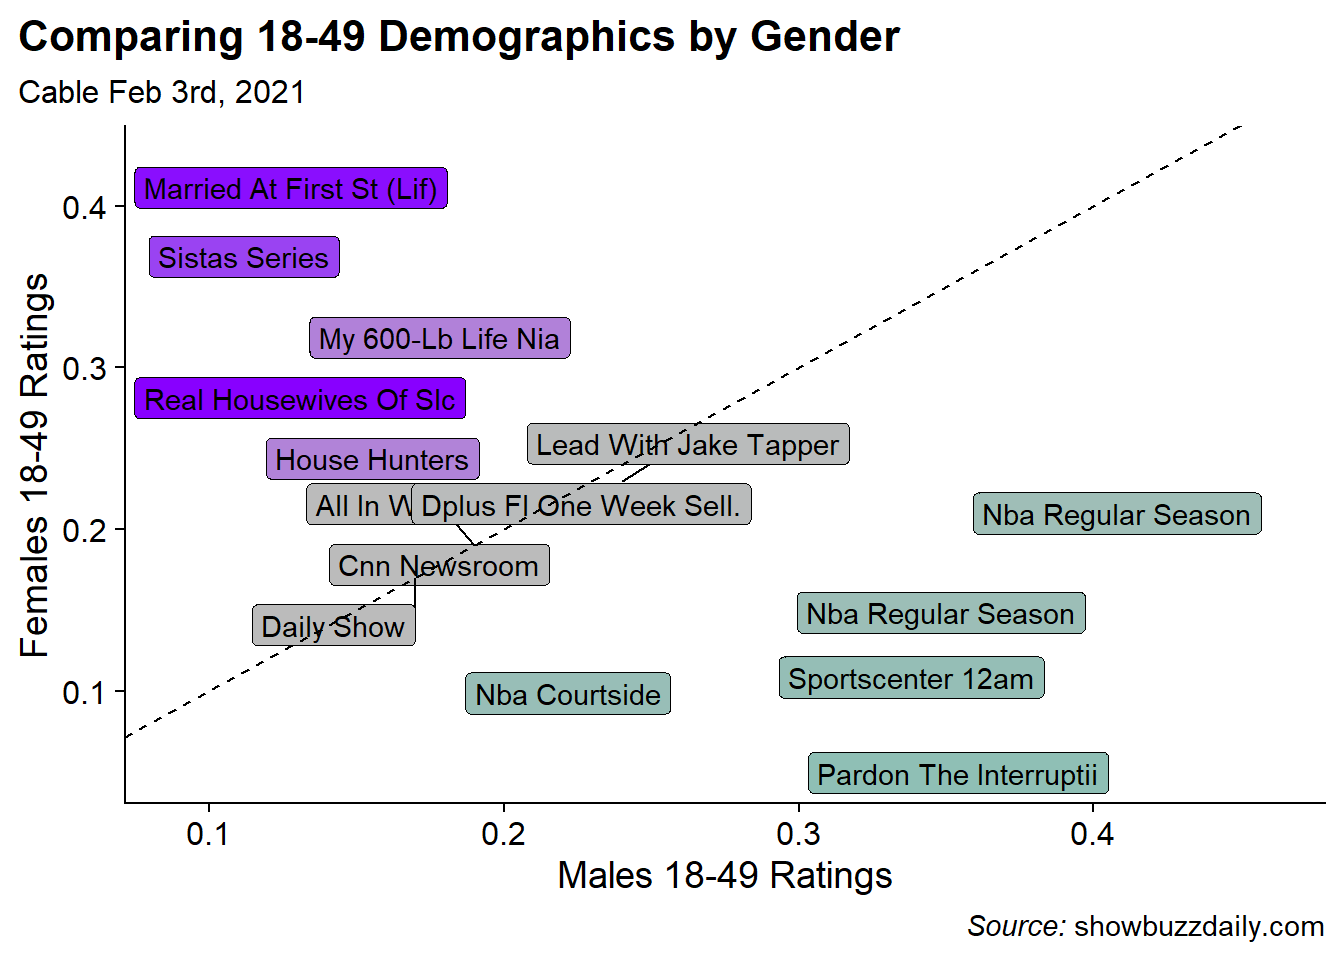
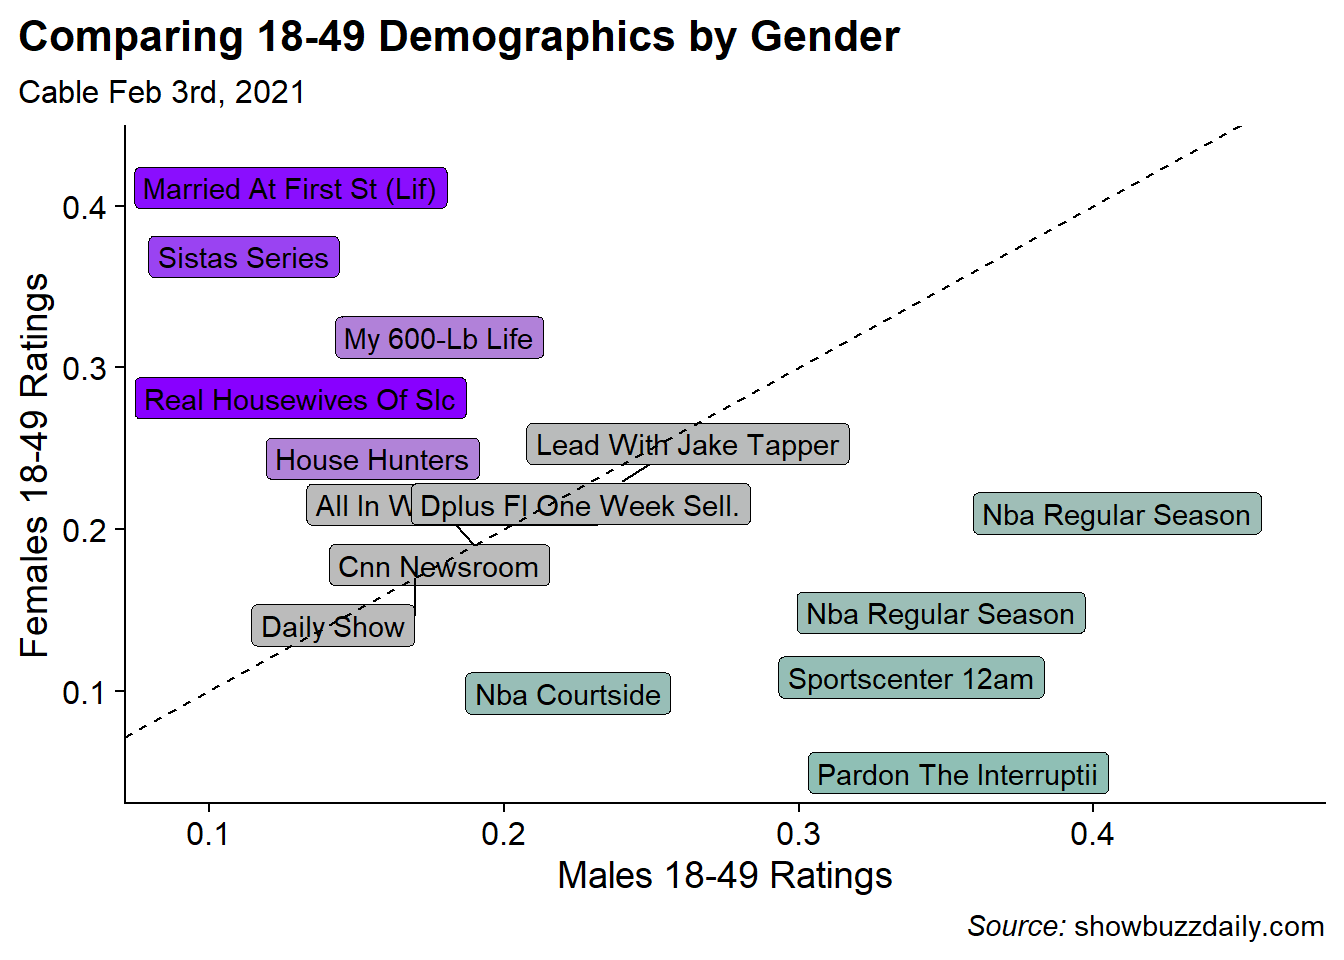
proofreading

diff --git a/content/post/2021-03-01-exploring-wednesday-night-cable-ratings-with-ocr/index.html b/content/post/2021-03-01-exploring-wednesday-night-cable-ratings-with-ocr/index.html
@@ -53,10 +53,10 @@ image_ggplot(chopped_image)</code></pre>
 <p>Now the non-tabular data (header and footer) have been removed.</p>
 <p>The <em>ocr()</em> algorithm that will handle extracting the data from the image can struggle sometimes with parts of the image as is. For example, it might think the color boundary between white and green is a character. Therefore, I’m going to try to do the best I can do clean up the image so that the <em>ocr()</em> function can have an easier time. Ultimately this required a lot of guess and check but in the end, I only did two steps for cleaning:</p>
 <ol style="list-style-type: decimal">
-<li>Running a thinning filter over the image to remove the horizontal lines separating each group of 5 shows (this required negating the colors of the image so that the filter would have an easier time).</li>
-<li>Turning everything to greyscale.</li>
+<li>Running a morphology method over the image to remove the horizontal lines separating each group of 5 shows (this required negating the colors of the image so that the filter would have an easier time since white is considered foreground by default). The morphology method modifies an image based on the neighborhood of pixels around it and thinning is subtracting pixels from a shape. So by negating the color the method turns “non-black” pixels to black. Then re-negating turns everything back to “white”.</li>
+<li>Turning everything to greyscale to remove remaining colors.</li>
 </ol>
-<p>I had tried to actually remove the color gradients, but it took much more effort and was ultimately not more effective than just going to greyscale.</p>
+<p>I had tried to remove the color gradients, but it took much more effort and was ultimately not more effective than just going to greyscale.</p>
 <pre class="r"><code>processed_image &lt;- chopped_image %&gt;% 
   image_negate() %&gt;% #Flip the Colors
   # Remove the Horizontal Lines
@@ -77,16 +77,17 @@ image_ggplot(processed_image)</code></pre>
   str_sub(end = str_locate(., &#39;\\n&#39;)[1])</code></pre>
 <pre><code>## [1] &quot;1 CHALLENGE: DOUBLE AGENMTV e:00PM 90/0.54 069 0.39 |047 053 0.20 |058 013} 920\n&quot;</code></pre>
 <p>Just looking at the top row there are a number of issues that come from just using <em>ocr()</em> directly on the table. The boundary between sections are showing up as “|” or “/” and sometime the decimal doesn’t appear.</p>
-<p>Fortunately the function allows you to “whitelist” characters in order to nudge the algorithm on what it should expect to see. So rather than guess and check on the processing of the image to make everything work perfectly. I’ll write a function that allows me to crop to individual columns and specific the proper whitelist for each column.</p>
+<p>Fortunately the function allows you to “whitelist” characters in order to nudge the algorithm on what it should expect to see. So rather than guess and check on the processing of the image to make everything work perfectly. I’ll write a function that allows me to crop to individual columns and specify the proper whitelist for each column.</p>
 <pre class="r"><code>ocr_text &lt;- function(col_width, col_start, format_code){
   
-  ##Formats
+  ##For Stations Which Are Only Characters
   only_chars &lt;- tesseract::tesseract(
     options = list(
       tessedit_char_whitelist = paste0(LETTERS, collapse = &#39;&#39;)
     )
   )
   
+  #For Titles Which Are Letters + Numbers + Characters
   all_chars &lt;- tesseract::tesseract(
     options = list(
       tessedit_char_whitelist = paste0(
@@ -94,15 +95,10 @@ image_ggplot(processed_image)</code></pre>
     )
   )
   
+  #For Ratings which are just numbers and a decimal point
   ratings &lt;- tesseract::tesseract(
     options = list(
       tessedit_char_whitelist = &quot;0123456789 .&quot;
-    )
-  )
-  
-  population &lt;- tesseract::tesseract(
-    options = list(
-      tessedit_char_whitelist = &quot;0123456789,&quot;
     )
   )
   
@@ -130,7 +126,7 @@ ratings &lt;- all_ocr %&gt;%
 </div>
 <div id="final-cleaning" class="section level2">
 <h2>Final Cleaning</h2>
-<p>Even with the column specific specifications the <em>ocr()</em> function did not get everything right. Due to the font, it has particular troubles distinguishing between <code>1</code>s and <code>4</code>s as well as <code>8</code>s and <code>6</code>s. Additionally, sometimes the decimal was still missed, and then I just decided to recode the networks manually.</p>
+<p>Even with the column specific specifications the <em>ocr()</em> function did not get everything right. Due to the font, it has particular troubles distinguishing between <code>1</code>s and <code>4</code>s as well as <code>8</code>s and <code>6</code>s. Additionally, sometimes the decimal was still missed. And since all networks were truncated in the original image, I just decided to manually recode.</p>
 <pre class="r"><code>ratings_clean &lt;- ratings %&gt;% 
   #Fix Things where the decimal was missed
   mutate(across(p_18_49:p_50_plus, ~parse_number(.x)),
@@ -150,6 +146,7 @@ ratings &lt;- all_ocr %&gt;%
            telecast == &#39;ALLIN WI CHRIS HAYES&#39; ~ &#39;ALL IN W/ CHRIS HAYES&#39;,
            telecast == &#39;BEAT WIARI MELBER&#39; ~&#39;BEAT W/ARI MELBER&#39;,
            telecast == &#39;SPORTSCENTER 124M L&#39; ~ &#39;SPORTSCENTER 12AM&#39;,
+           telecast == &#39;MY 600-LB LIFE NIA&#39; ~ &#39;MY 600-LB LIFE&#39;,
            TRUE ~ telecast
          ),
          # Turn to Title Case
@@ -212,7 +209,7 @@ knitr::kable(head(ratings_clean, 3))</code></pre>
 </tr>
 </tbody>
 </table>
-<p>But now everything should be ready for analysis.</p>
+<p>Now everything should be ready for analysis.</p>
 </div>
 <div id="analysis-of-cable-ratings" class="section level2">
 <h2>Analysis of Cable Ratings</h2>
@@ -286,11 +283,11 @@ key_all / (key_male | key_female) +
             plot.title = ggtext::element_markdown(size = 14),
             plot.caption = ggtext::element_markdown())</code></pre>
 <p><img src="index_files/figure-html/most_popular_18_49-1.png" width="672" /></p>
-<p>From the chart its clear that the Challenge is fairly dominent in the 18-49 Demographic with 0.21% (or 1.63x) higher than the 2nd highest show. Although while the Challenge is popular with both genders its the most popular shows amongst 18-49 Females but only 3rd for 18-49 Males after a NBA game and AEW Professional Wrestling.</p>
+<p>From the chart its clear that the Challenge is fairly dominant in the 18-49 Demographic with 0.21% (or 1.63x) higher than the 2nd highest show. Although while the Challenge is popular with both genders its the most popular shows amongst 18-49 Females but only 3rd for 18-49 Males after a NBA game and AEW Professional Wrestling.</p>
 </div>
 <div id="the-most-male-dominant-female-dominant-and-gender-balanced-shows" class="section level3">
 <h3>The Most Male-Dominant, Female Dominant, and Gender-Balanced Shows</h3>
-<p>From the above chart its clear that some shows skew Male (sports) and some skew Female (reality shows like Married at First Sight and My 600-lb Life). But I can look at that more directly by comparing the ratios the Female 18-49 rating to the Male 18-49 rating to determine the gender skew of each show. I break the shows into categories of <em>Male Skewed</em>, <em>Female Skewed</em>, and <em>Balanced</em>.</p>
+<p>From the above chart its clear that some shows skew Male (sports) and some skew Female (reality shows like Married at First Sight and My 600-lb Life). But I can look at that more directly by comparing the ratios the Female 18-49 rating to the Male 18-49 rating to determine the gender skew of each show. I break the shows into categories of <em>Male Skewed</em>, <em>Female Skewed</em>, and <em>Balanced</em> (where the Female/Male Ratio is closest to 1).</p>
 <pre class="r"><code>##Female / Male Ratio for Key Demo
 bind_rows(
   ratings_clean %&gt;% 
@@ -321,11 +318,11 @@ bind_rows(
       plot.caption = ggtext::element_markdown()
     )</code></pre>
 <p><img src="index_files/figure-html/gender_break-1.png" width="672" /></p>
-<p>Sure enough the most Male dominated shows are sport-related with 2 NBA Games, an NBA pre-gram show, an episode of Sportscenter, and a sports talking heads show. Female skewed shows are also not surprising with Married at First Sight, Sistas, My 600-lb Life, and Real Housewives of Salt Lake City topping the list. For the balanced category, I did not have much of an expectation but all the programs seems to be News shows or news adjacent like the Daily Show… which I guess makes sense.</p>
+<p>Sure enough the most Male dominated shows are sport-related with 2 NBA Games, an NBA pre-game show, an episode of Sportscenter, and a sports talking heads show. Female skewed shows are also not surprising with Married at First Sight, Sistas, My 600-lb Life, and Real Housewives of Salt Lake City topping the list. For the balanced category, I did not have much of an expectation but all the programs seems to be News shows or news adjacent like the Daily Show… which I guess makes sense.</p>
 </div>
 <div id="most-popular-shows-for-the-50-demographic" class="section level3">
 <h3>Most Popular Shows for the 50+ Demographic</h3>
-<p>Turning away from the 18-49 demographic I can also look at the most popular shows for the 50+ demographic. Unfortuntaely, there is not a 50+ gender breakdown so I can only look at the overall.</p>
+<p>Turning away from the 18-49 demographic I can also look at the most popular shows for the 50+ demographic. Unfortunately, there is not a 50+ gender breakdown so I can only look at the overall.</p>
 <pre class="r"><code>ratings_clean %&gt;% 
   slice_max(p_50_plus, n = 10) %&gt;% 
   ggplot(aes(x = fct_reorder(telecast, p_50_plus), y = p_50_plus,  fill = network)) + 
@@ -350,4 +347,8 @@ bind_rows(
 <p><img src="index_files/figure-html/plus50_overall-1.png" width="672" /></p>
 <p>Interestingly in the 50+ Demo, <em>ALL</em> of the shows are News shows and they only come from 3 networks. Two on CNN, Two on Fox News, and 6 on MSNBC. Again, didn’t have a ton of expectation but it was surprising to be how homogeneous the 50+ demography was.</p>
 </div>
+</div>
+<div id="concluding-thoughts" class="section level2">
+<h2>Concluding Thoughts</h2>
+<p>While I still love The Challenge and am happy for its popularity, its best time was probably about 10 years ago (sorry not sorry). As far as the techniques in this post are concerned, I found extracting the data from an image to be an interesting challenge (no pun intended) but if the table was a tractable size I would probably manually enter the data rather than go through this again. Getting the data correct required a lot of guess and check for working with <code>magick</code> and <code>tesseract</code>. As for the analysis, I guess its good when things go as expected (most popular shows by gender follow stereotypical gender conventions) but I think the most surprising thing to me was how much cable news dominated the 50+ Demographic.</p>
 </div>
